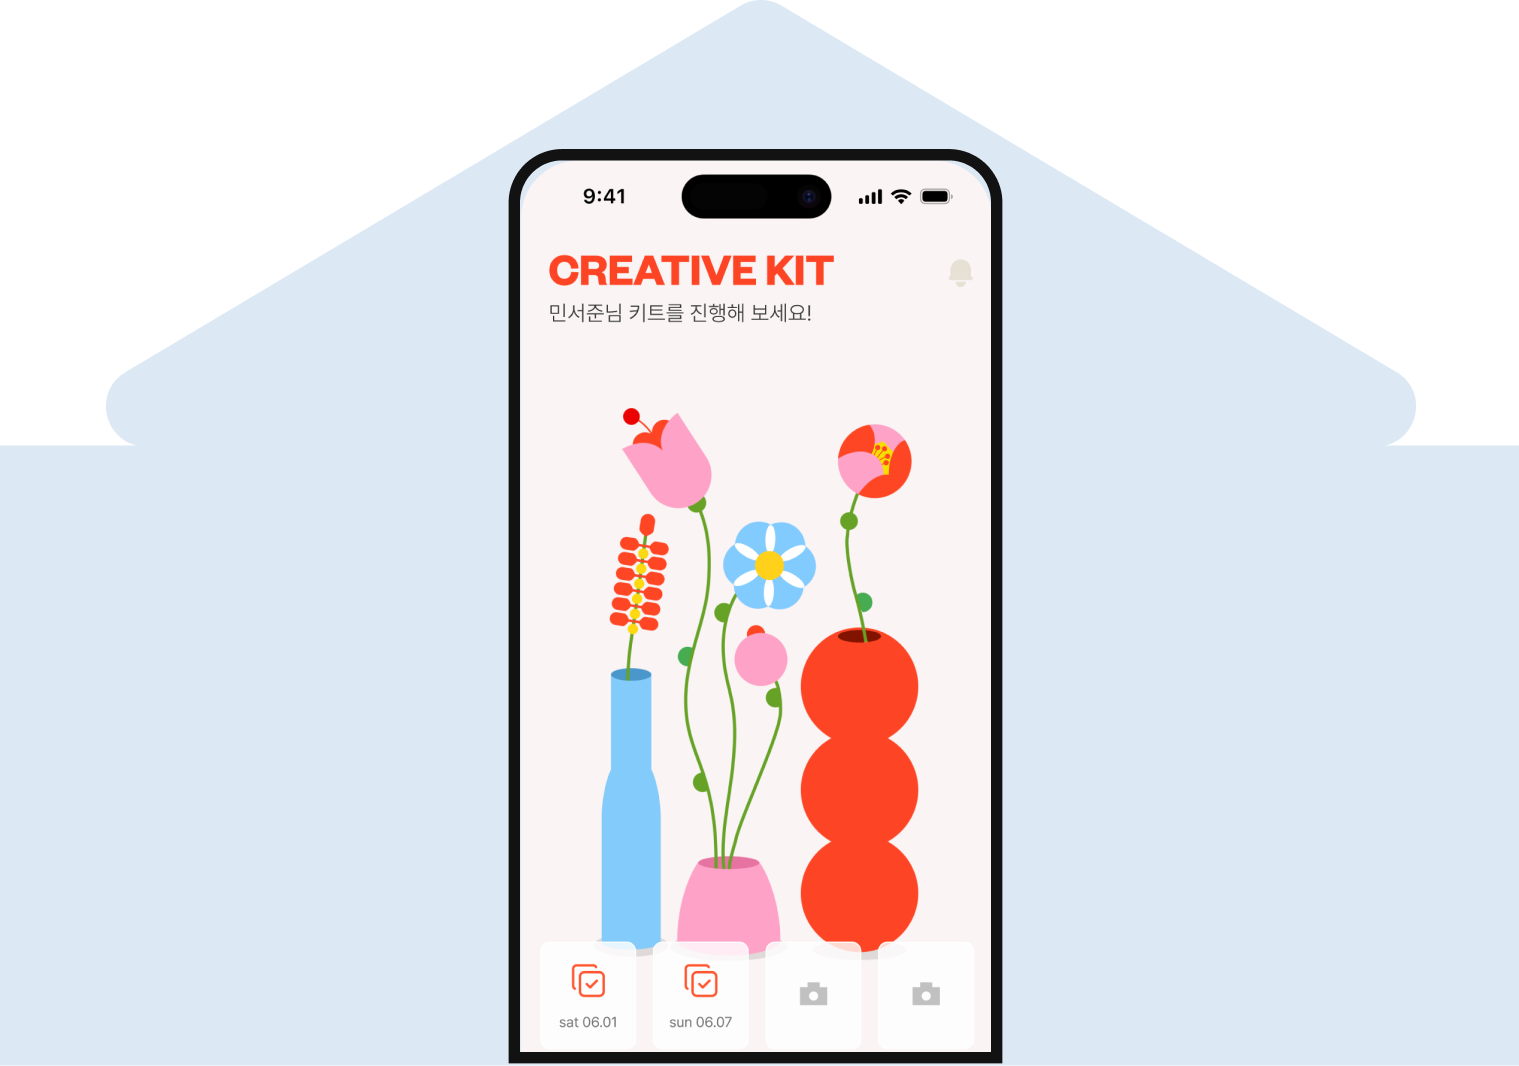
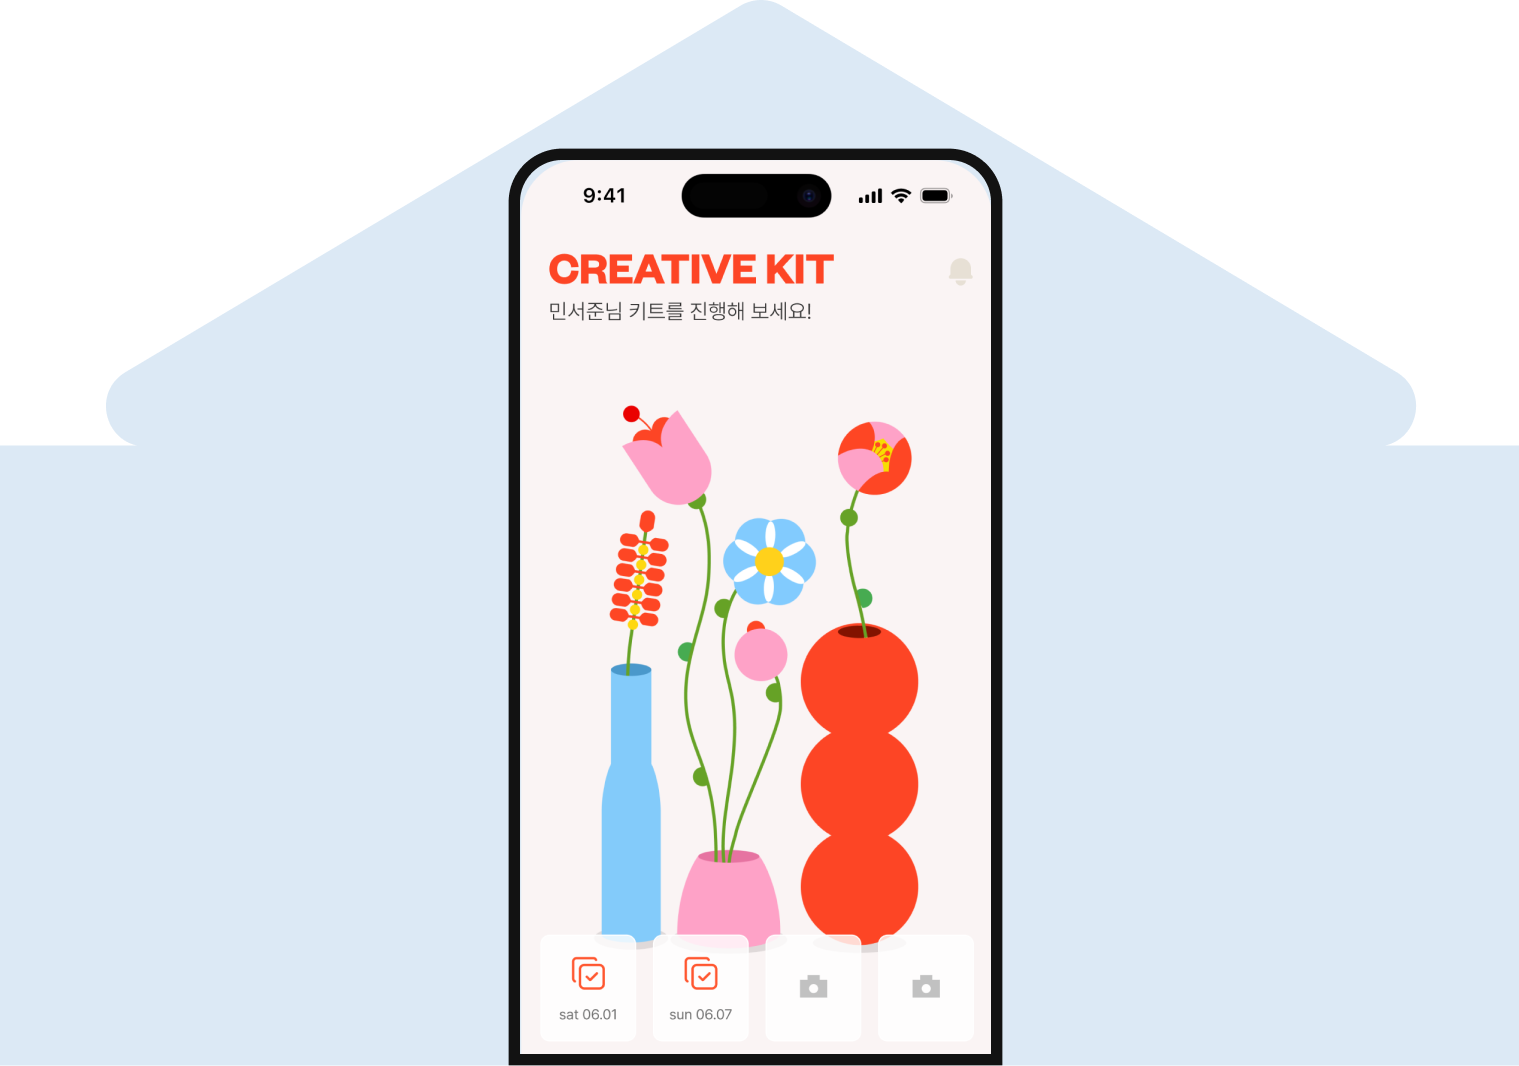
[fixed] Appservice 수정
- 텍스트 마진 및 행간 조절
- HOME 섹션 백그라운드 도형 이미지 교체

diff --git a/src/appservice/AppService.jsx b/src/appservice/AppService.jsx
@@ -87,10 +87,11 @@ const AppServiceH2 = styled.h2`
     text-align: center;
 `
 const AppServiceH4 = styled.h4`
-    font-size: ${colors.kSizeText20};
+    font-size: ${fontSize.kSizeText20};
     color: ${ (props) => props.isBgOrange ?  '#ffffff' : colors.smallBlack };
     margin-top: 1.56vw;
     text-align: center;
+    line-height: 1.51vw;
 `
 const PersonalIzation = styled.div`
     display: flex;
@@ -113,7 +114,7 @@ const PersonalIzationImg = styled.div`
         .ization_arrow{ 
             width: 3.69vw;
             position: absolute;
-            top: 6vw; right: -4. 5vw;
+            top: 8.5vw; right: -5vw;
         }
     }
     &:nth-child(4){
@@ -122,9 +123,11 @@ const PersonalIzationImg = styled.div`
             width: 29.1vw;
             position: absolute;
             top: -5vw;
+            left: -4vw;
         }
     }
     p:nth-child(1){
+        color: ${colors.mainOrange};
         font-size: 1.56vw;
         font-weight: 500; 
     }
@@ -134,6 +137,7 @@ const PersonalIzationImg = styled.div`
         margin: 0.26vw 0 1.56vw 0;
     }
     p.recommand_personal{
+        font-size: 1.56vw;
         color: ${colors.mainOrange};
         font-weight: 700;
         margin-bottom: 1.35vw;
@@ -146,6 +150,7 @@ const VariousKitWrap = styled.div`
         text-align: start;
     }
     h5{
+        margin: 4.42vw 0 0.57vw 0;
         font-size: ${fontSize.kSizeHead};
         color: ${colors.smallBlack};
         line-height: 1.96vw;
@@ -219,13 +224,18 @@ const boxFade = keyframes`
 const HomeWrap = styled.div`
     margin-top: 4.16vw;
     padding: 6.51vw 0 0 0;
+    height: 72.13vw;
     background-color: ${colors.mainIvory};
     display: flex;
     flex-direction: column;
     align-items: center;
-    justify-content: center;
+    justify-content: space-between;
+    h4{
+        padding-bottom: 1.77vw;
+    }
     img.home_bg{
-        width: 79.16vw;
+        width: auto;
+        height: 55.46vw;
     }
     .home_popup_wrap{
         width: 100%;
@@ -423,7 +433,7 @@ const AppService = () => {
                     </PersonalIzationImg>
                     <PersonalIzationImg>
                         <p> 03 </p>
-                        <p> 기본 정보 인식 </p>
+                        <p> 관심 분야 </p>
                         <img src={personal_03} />
                     </PersonalIzationImg>
                     <PersonalIzationImg>
